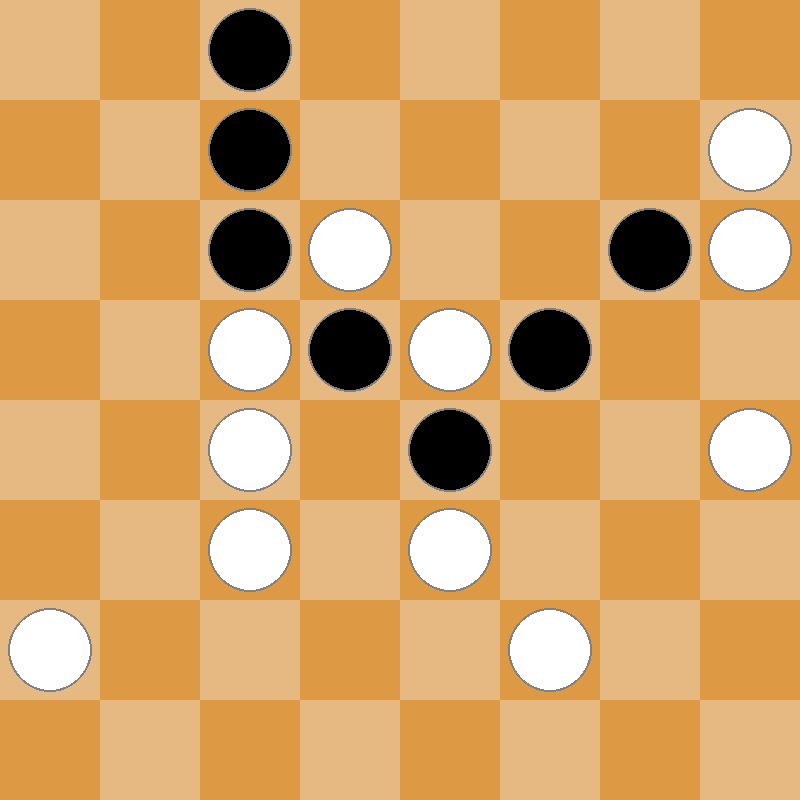
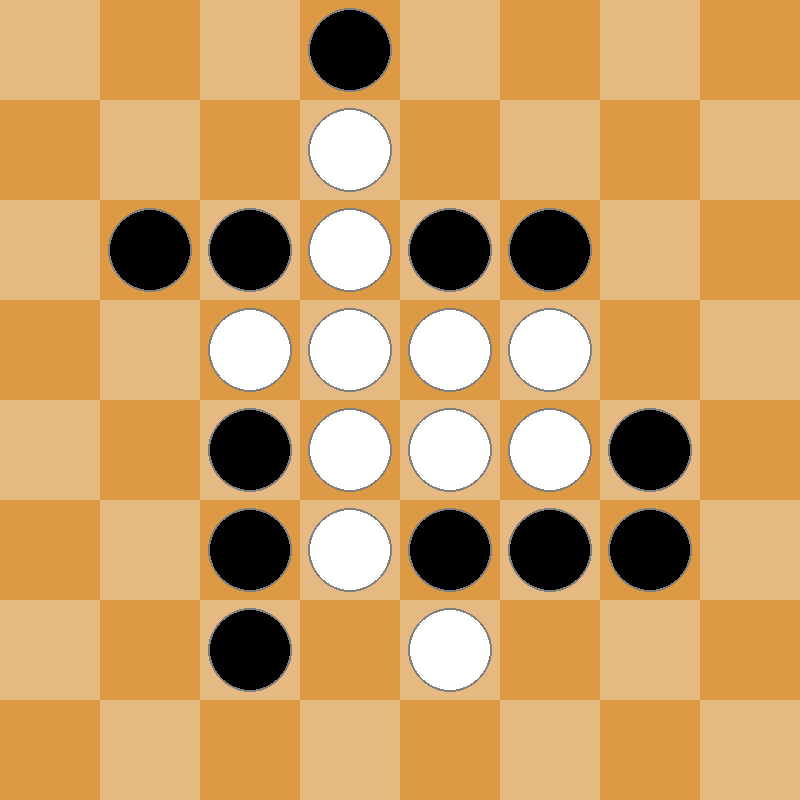
Concentration Heusristic added

diff --git a/src/minimax/algorithm.py b/src/minimax/algorithm.py
@@ -10,33 +10,33 @@ WHITE = (255, 255, 255)
 # TRUE - MAX Player
 # FALSE = MIN Player
 
-def minimax(position, depth, max_player, game, currentTurn, alpha, beta):
+def minimax(board, depth, max_player, game, currentTurn, alpha, beta):
 
-    if depth == 0 or position.winner() != None:
-        return position.evaluate(game.turn), position
+    if depth == 0 or game.check_gameover2(board) != -1:
+        return board.evaluate(game.turn), board
     
     if max_player:
         maxEval = float('-inf')
         best_move = None
-        for move in get_all_moves(position, currentTurn, game):
+        for move in get_all_moves(board, currentTurn, game):
             evaluation, temp_move = minimax(move, depth-1, False, game, currentTurn, alpha, beta)
             maxEval = max(maxEval, evaluation)
             alpha = max(alpha, evaluation)
-            if beta <= alpha:
+            if beta < alpha:
                 break
             if maxEval == evaluation:
                 best_move = move
-                
+
         return maxEval, best_move
         
     else:
         minEval = float('inf')
         best_move = None
-        for move in get_all_moves(position, changeTurn(currentTurn), game):
+        for move in get_all_moves(board, changeTurn(currentTurn), game):
             evaluation, temp_move = minimax(move, depth-1, True, game, currentTurn, alpha, beta)
             minEval = min(minEval, evaluation)
             beta = min(beta, evaluation)
-            if beta <= alpha:
+            if beta < alpha:
                 break
             if minEval == evaluation:
                 best_move = move
@@ -59,6 +59,8 @@ def get_all_moves(board, color, game):
         valid_moves = board.get_valid_moves(piece)
         # for move, capturedPiece in valid_moves.items():
         for move in valid_moves:
+            # Discomment if would like to see all the possible branches of minimax
+            # draw_moves(game, board, piece)    
             temp_board = deepcopy(board)
             temp_piece = temp_board.get_piece(piece.row, piece.col)
             new_board = simulate_move(temp_piece, move, temp_board, game)
@@ -68,3 +70,11 @@ def get_all_moves(board, color, game):
 
 def changeTurn(Turn):
     return WHITE if Turn == BLACK else BLACK
+
+
+def draw_moves(game, board, piece):
+    valid_moves = board.get_valid_moves(piece)
+    board.draw(game.window)
+    pygame.draw.circle(game.window, (0,255,0), (piece.x, piece.y), 50, 5)
+    game.draw_valid_moves(valid_moves)
+    pygame.display.update()

diff --git a/src/game/board.py b/src/game/board.py
@@ -61,39 +61,23 @@ class Board:
             else:
                 self.white_left -= 1
 
+    def winner(self):
+        # TODO
+        return None
+
     # Moves a piece to a new square and checks if a player or the other has won
     def move(self, piece, row, col):
         self.board[piece.row][piece.col], self.board[row][col] = self.board[row][col], self.board[piece.row][piece.col]
         piece.move(row, col)
         
-        # pieceCount = self.checkWin(piece.color)
-        # if(piece.color== (0,0,0)):#black
-        #     if pieceCount == self.black_left:
-        #         # returns 1
-        #         print( "BLACK WINS THE GAME" )
-        #
-        #     else:
-        #         pieceCount = self.checkWin(WHITE)
-        #         if pieceCount == self.white_left:
-        #             # returns 2
-        #             print( "WHITE WINS THE GAME" )
-        #
-        # else: # foi jogada uma peça branca
-        #     if pieceCount == self.white_left:
-        #             print( "WHITE WINS THE GAME" )
-        #     else:
-        #         pieceCount =self.checkWin(BLACK)
-        #         if pieceCount == self.black_left:
-        #             print( "BLACK WINS THE GAME" )
-    def winner(self):
-        # TODO
-        return None
-        
-        
     def evaluate(self, turn):
         
         pieces = self.get_all_pieces(turn)
         value = self.centralisation(pieces)
+        print("Centralization value: ", value)
+        concentrationVal = self.concentration(pieces)
+        value += concentrationVal
+        print("concentration value: ", concentrationVal)
 
         return value
 
@@ -115,7 +99,22 @@ class Board:
 
         return sum
 
+    def concentration(self, pieces):
+        centerRow = 0
+        centerCol = 0
+        for piece in pieces:
+            centerRow += piece.row
+            centerCol += piece.col
+        
+        centerRow /= len(pieces)
+        centerCol /= len(pieces)
+        totalDistance = 0
+        for piece in pieces:
+            totalDistance += max(abs(centerRow-piece.row), abs(centerCol-piece.col))
 
+        averageDistance = totalDistance/len(pieces)
+
+        return -100*averageDistance
     
     def get_all_pieces(self, color):
         pieces = []

diff --git a/src/game/game.py b/src/game/game.py
@@ -106,6 +106,26 @@ class Game:
                     return 1
         return -1
 
+    def check_gameover2(self, board):
+        pieceCount = self.countFirstGroup(self.turn)
+        if self.turn == BLACK:
+            if pieceCount == board.black_left:
+                return 1
+
+            else:
+                pieceCount = self.countFirstGroup(WHITE)
+                if pieceCount == board.white_left:
+                    return 2
+
+        else:  # White
+            if pieceCount == board.white_left:
+                return 2
+            else:
+                pieceCount = self.countFirstGroup(BLACK)
+                if pieceCount == board.black_left:
+                    return 1
+        return -1
+
     def countFirstGroup(self, colorPiece):
         self.counter = 0
         self.visited = []

diff --git a/src/main.py b/src/main.py
@@ -38,7 +38,7 @@ def main():
             value, new_board = minimax(game.get_board(), EASY_LEVEL, True, game, WHITE, float('-inf'),  float('inf'))
             game.ai_move(new_board)
         elif game.turn == BLACK and PLAYER_BLACK == BOT:
-            value, new_board = minimax(game.get_board(), MEDIUM_LEVEL, True, game, BLACK, float('-inf'),  float('inf'))
+            value, new_board = minimax(game.get_board(), EASY_LEVEL, True, game, BLACK, float('-inf'),  float('inf'))
             game.ai_move(new_board)
 
         gameStatus = game.check_gameover()
@@ -60,6 +60,7 @@ def main():
                 game.select(row, col)
 
         game.update()
+        # pygame.time.wait(1000)
 
     pygame.quit()
 
